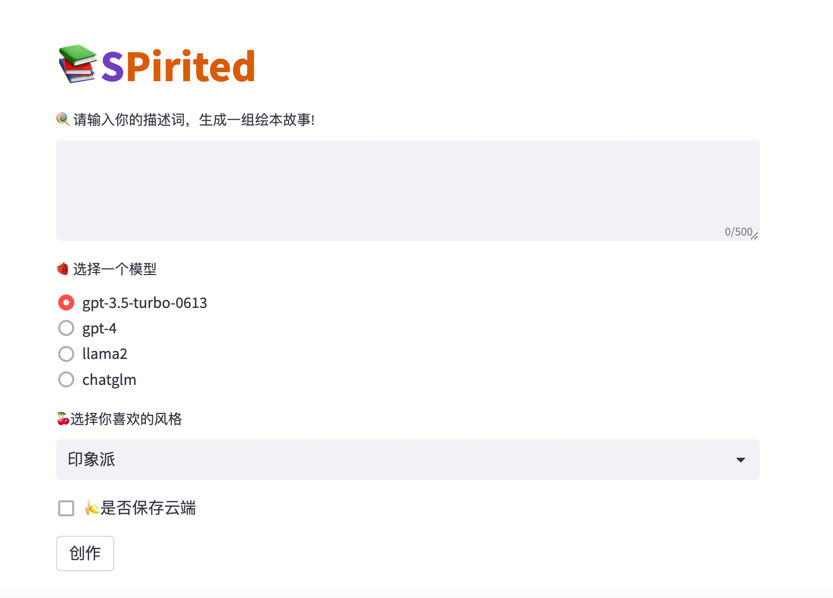
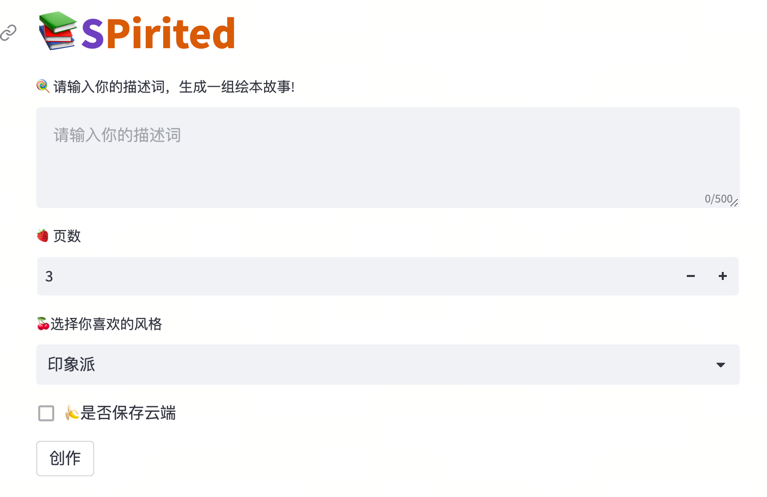
fix llm option

diff --git a/app.py b/app.py
@@ -15,18 +15,20 @@ def main():
         page_icon="./images/favicon.ico"
     )
     st.title('📚:violet[S]:orange[Pirited]')
-    inputs = st.text_area(":lollipop: 请输入你的描述词，生成一组绘本故事!", max_chars=500)
-    model = st.radio(':strawberry: 选择一个模型', MODLES)
-    if model != "gpt-3.5-turbo-0613" :
-        st.warning("抱歉！目前只支持gpt-3.5-turbo-0613模型，其他模型敬请期待！")
+    inputs = st.text_area(":lollipop: 请输入你的描述词，生成一组绘本故事!", max_chars=500,placeholder="请输入你的描述词")
 
+    chapter_num = st.number_input(":strawberry: 页数", min_value=1, max_value=20, value=3)
+    # model = st.radio(':strawberry: 选择一个模型', MODLES)
+    # if model != "gpt-3.5-turbo-0613":
+    #     st.warning("抱歉！目前只支持gpt-3.5-turbo-0613模型，其他模型敬请期待！")
+    model = "gpt-3.5-turbo-0613"
     style = st.selectbox(':cherries:选择你喜欢的风格', [key for key in STYLES.keys()])
     is_save = st.checkbox(':banana:是否保存云端')
 
     if st.button('创作') and inputs:
         # 处理中 暂时放置一段文案
         with st.spinner('请稍等，生成中...'):
-            app = BookMaker(inputs, model, STYLES[style])
+            app = BookMaker(inputs, model, STYLES[style], chapter_num)
             # 1. 生成绘本image和description
             # 生成故事描述（含标题）
             story_pages = app.generate_story()

diff --git a/consts.py b/consts.py
@@ -16,5 +16,6 @@ STYLES = {
     '表现主义': 'Expressionist art style, Edvard Munch, distorted forms, dramatic colors, emotional impact, subjective'
 }
 
-MODLES = ['gpt-3.5-turbo-0613', 'gpt-4', 'llama2', 'chatglm']
-    
+MODLES = ['gpt-3.5-turbo-0613']
+# MODLES = ['gpt-3.5-turbo-0613', 'gpt-4', 'llama2', 'chatglm']
+

diff --git a/README.md b/README.md
@@ -11,6 +11,8 @@
 
 - **一句话生成一本书**：用户只需输入一句话便可生成一本丰富多彩的儿童故事书。
 
+- **随声朗读**：Coming soon。（生成符合故事情节的文字、语音朗读，有种身临其境的感觉。）
+
 - **GPT 驱动**：利用 GPT（OpenAI、LLama2、ChatGLM等） 技术，生成富有创意的绘本故事，使其充满乐趣和想象力。
 
 - **Function Calling 支持**：使用 Function Calling 技术，可以自定义绘本中的交互和功能，增加互动性。
